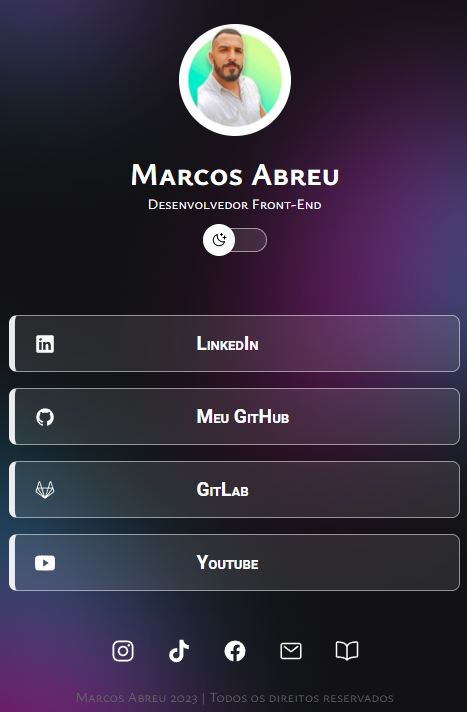
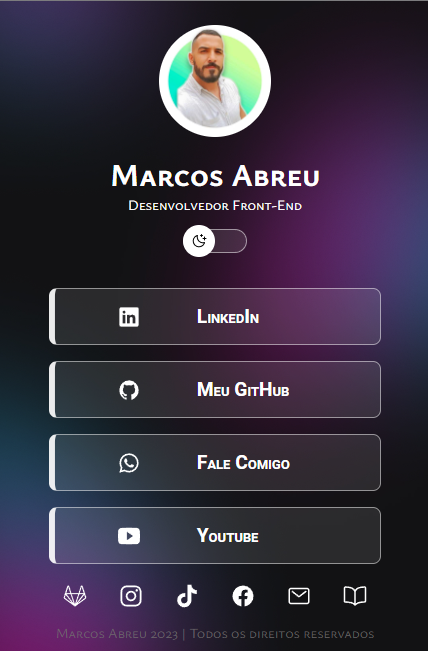
update css and README

Changed region(s): [[0.0, 0.4301, 1.0, 1.0], [0.243, 0.0307, 0.7593, 0.3994], [0.8808, 0.4301, 0.9112, 0.4608]]

diff --git a/src/css/style.css b/src/css/style.css
@@ -28,7 +28,6 @@
 body {
   background: var(--bg-url) no-repeat
     center/cover;
-    /* overflow-y: scroll; */
 }
 
 body * {
@@ -38,13 +37,12 @@ body * {
 #container {
   width: 100%;
   max-width: 588px;
-  height: 712px;
+  height: auto;
   margin: auto;
   display: flex;
   flex-direction: column;
   align-items: center;
   font-family: "Roboto", sans-serif;
-  /* background-color: var(--surface-color); */
 }
 .profile {
   font-family: "Ysabeau SC", sans-serif;
@@ -102,7 +100,7 @@ body * {
 #links {
   display: flex;
   flex-direction: column;
-  padding: 24px;
+  padding: 0 25px;
   width: 100%;
 }
 
@@ -110,7 +108,7 @@ body * {
   display: flex;
   flex-direction: column;
   gap: 16px;
-  padding: 24px 0;
+  padding: 20px 24px;
 }
 
 #links ul li a {
@@ -182,19 +180,11 @@ footer span{
 /*animation*/
 
 @keyframes slide-in {
-  from{
-    left: 0;
-  }
-  to{
-    left: 50%;
-  }
+  from{left: 0;}
+  to{left: 50%;}
 }
 
 @keyframes slide-back {
-  from{
-    left: 50%;
-  }
-  to{
-    left: 0;
-  }
+  from{left: 50%;}
+  to{left: 0;}
 }

diff --git a/README.md b/README.md
@@ -17,7 +17,7 @@ Esse projeto foi desenvolvido com as seguintes tecnologias:
 - Node e NPM
 - Git e Github
 
-- [Acesse o projeto finalizado, online](https://https://omarcossabreu.github.io/projeto-Links/)
+- [Acesse o projeto finalizado, online](https://omarcossabreu.github.io/project-Links/)
 
 ## :memo: Licença
 
